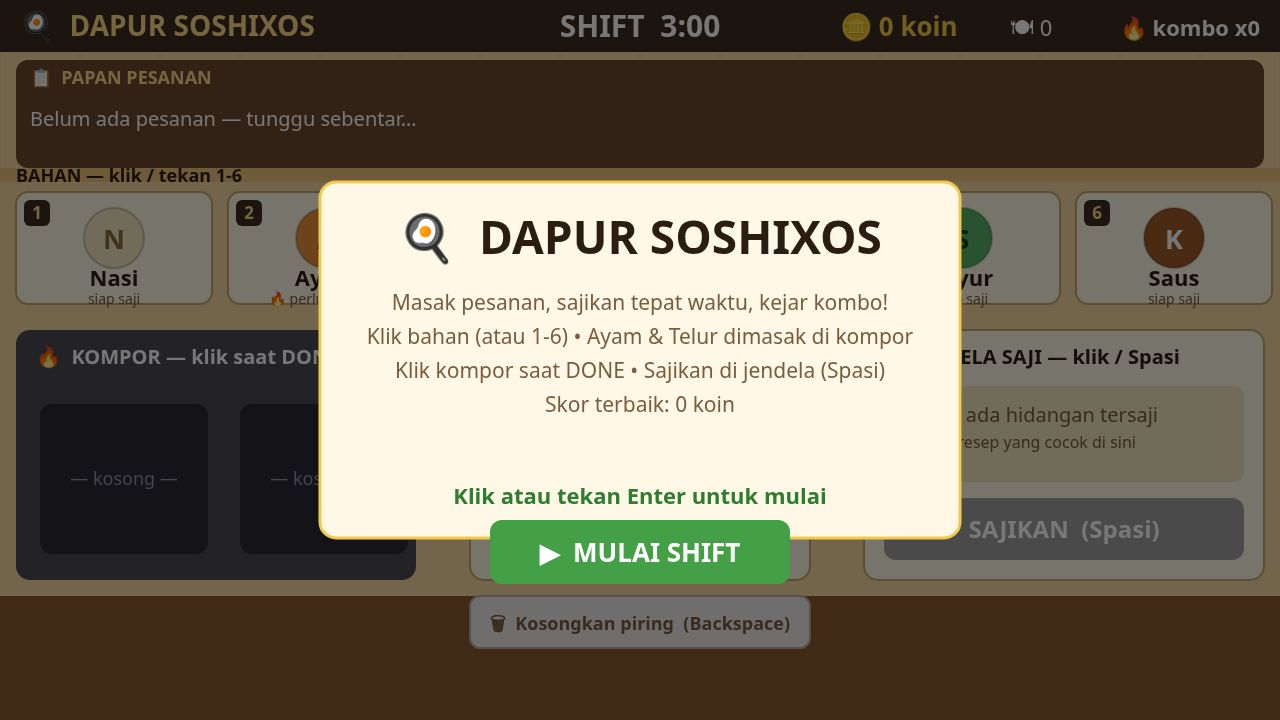
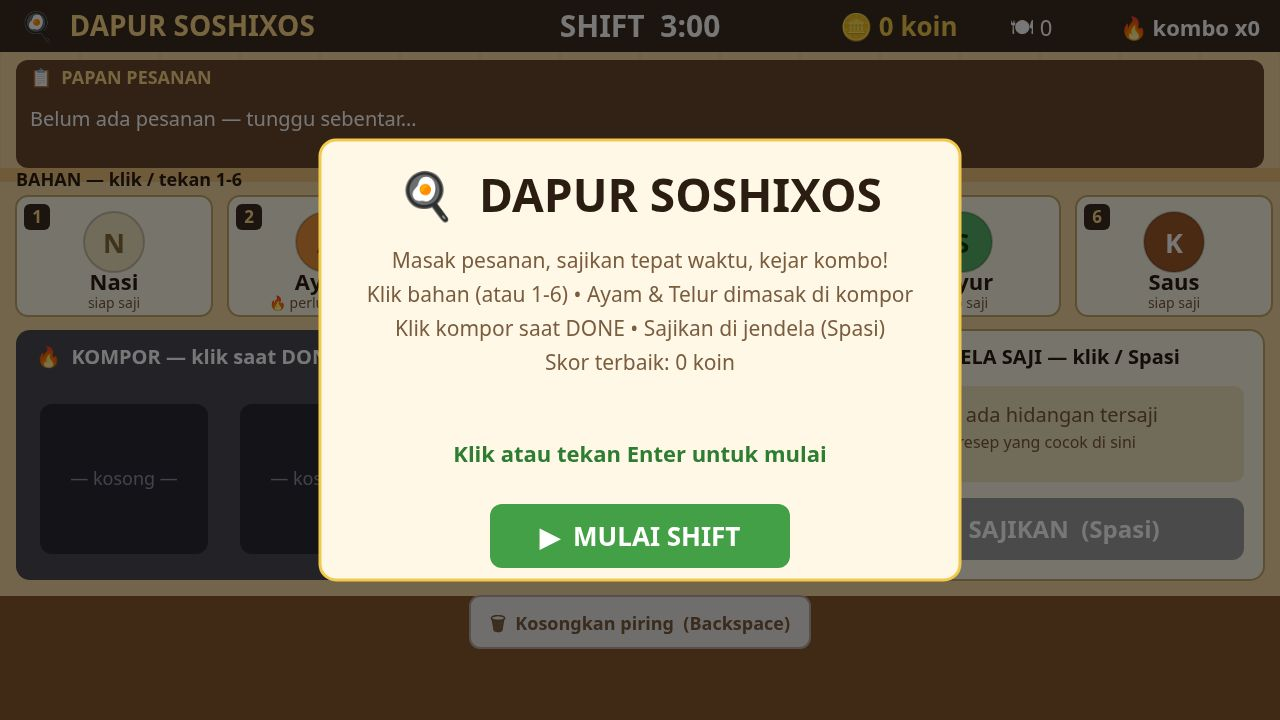
Revise Dapur Soshixos: fix Space-to-serve, toast overflow, title button + plate layout, busier play shot

diff --git a/game/src/render.js b/game/src/render.js
@@ -76,6 +76,22 @@ export function createRenderer(canvas) {
     ctx.stroke();
   }
 
+  // Same as text(), but shrinks the font until the string fits maxWidth —
+  // long toasts (e.g. "+41 koin! Nasi Ayam Saus tersaji.") must never spill
+  // past the panel they sit in.
+  function fitText(value, x, y, size, maxWidth, color, align = 'center', bold = false) {
+    let s = size;
+    ctx.font = `${bold ? 'bold ' : ''}${s}px ${FONT}`;
+    while (s > 11 && ctx.measureText(value).width > maxWidth) {
+      s -= 1;
+      ctx.font = `${bold ? 'bold ' : ''}${s}px ${FONT}`;
+    }
+    ctx.fillStyle = color;
+    ctx.textAlign = align;
+    ctx.textBaseline = 'alphabetic';
+    ctx.fillText(value, x, y);
+  }
+
   function ingredientDisc(cx, cy, r, ing, cooked = true, burnt = false) {
     ctx.beginPath();
     ctx.arc(cx, cy, r, 0, Math.PI * 2);
@@ -188,19 +204,10 @@ export function createRenderer(canvas) {
     outline(p.x, p.y, p.w, p.h, ready ? PALETTE.green : '#c9a86a', ready ? 4 : 2, 14);
     text('🍽  PIRING', p.x + 20, p.y + 34, 20, PALETTE.text, 'left', true);
     text(`${state.plate.length}/${3} bahan`, p.x + p.w - 20, p.y + 34, 18, PALETTE.muted, 'right');
-    // Plate circle.
-    ctx.beginPath();
-    ctx.arc(p.x + p.w / 2, p.y + 150, 78, 0, Math.PI * 2);
-    ctx.fillStyle = PALETTE.plate;
-    ctx.fill();
-    ctx.strokeStyle = '#c9a86a';
-    ctx.lineWidth = 3;
-    ctx.stroke();
-    ctx.beginPath();
-    ctx.arc(p.x + p.w / 2, p.y + 150, 56, 0, Math.PI * 2);
-    ctx.strokeStyle = '#e0cba8';
-    ctx.lineWidth = 2;
-    ctx.stroke();
+    // Wide platter tray the three plate slots sit on (a circle left the outer
+    // discs straddling its rim).
+    rect(p.x + 16, p.y + 92, p.w - 32, 112, PALETTE.plate, 52);
+    outline(p.x + 16, p.y + 92, p.w - 32, 112, '#e0cba8', 2, 52);
     for (let i = 0; i < 3; i += 1) {
       const r = plateSlotRect(i);
       const item = state.plate[i];
@@ -247,7 +254,7 @@ export function createRenderer(canvas) {
     rect(bx, by, bw, bh, ready ? PALETTE.serveReady : '#9e9e9e', 12);
     text(ready ? '🔔  SAJIKAN SEKARANG  (Spasi)' : 'SAJIKAN  (Spasi)', bx + bw / 2, by + 40, 24, '#ffffff', 'center', true);
     if (state.toast) {
-      text(state.toast.text, s.x + s.w / 2, s.y + 246, 17, PALETTE.text, 'center', true);
+      fitText(state.toast.text, s.x + s.w / 2, s.y + 246, 17, s.w - 32, PALETTE.text);
     }
   }
 
@@ -278,9 +285,9 @@ export function createRenderer(canvas) {
     drawTrash(state);
   }
 
-  function drawPanel(title, lines, prompt) {
+  function drawPanel(title, lines, prompt, withButton = false) {
     const width = 640;
-    const height = 150 + lines.length * 34 + 70;
+    const height = 150 + lines.length * 34 + 70 + (withButton ? 84 : 0);
     const x = (FIELD.width - width) / 2;
     const y = (FIELD.height - height) / 2;
     rect(0, 0, FIELD.width, FIELD.height, '#00000088');
@@ -288,7 +295,8 @@ export function createRenderer(canvas) {
     outline(x, y, width, height, PALETTE.gold, 3, 16);
     text(title, FIELD.width / 2, y + 72, 46, PALETTE.text, 'center', true);
     lines.forEach((line, i) => text(line, FIELD.width / 2, y + 128 + i * 34, 21, PALETTE.muted, 'center'));
-    text(prompt, FIELD.width / 2, y + height - 34, 22, PALETTE.green, 'center', true);
+    text(prompt, FIELD.width / 2, y + height - (withButton ? 118 : 34), 22, PALETTE.green, 'center', true);
+    return { x, y, width, height };
   }
 
   function draw(state, screen, best) {
@@ -298,16 +306,17 @@ export function createRenderer(canvas) {
     ctx.setTransform(view.scale, 0, 0, view.scale, view.x, view.y);
     drawKitchen(state);
     if (screen === SCREEN_TITLE) {
-      drawPanel('🍳  DAPUR SOSHIXOS', [
+      const panel = drawPanel('🍳  DAPUR SOSHIXOS', [
         'Masak pesanan, sajikan tepat waktu, kejar kombo!',
         'Klik bahan (atau 1-6) • Ayam & Telur dimasak di kompor',
         'Klik kompor saat DONE • Sajikan di jendela (Spasi)',
         `Skor terbaik: ${best} koin`,
-      ], 'Klik atau tekan Enter untuk mulai');
-      // Start button hint drawn on the panel area.
+      ], 'Klik atau tekan Enter untuk mulai', true);
+      // Start button sits inside the panel, above its bottom edge
+      // (LAYOUT.startButton is kept in sync for hit-testing).
       const b = LAYOUT.startButton;
-      rect(b.x, b.y, b.w, b.h, PALETTE.serveReady, 12);
-      text('▶  MULAI SHIFT', FIELD.width / 2, b.y + 42, 26, '#ffffff', 'center', true);
+      rect(b.x, panel.y + panel.height - 76, b.w, b.h, PALETTE.serveReady, 12);
+      text('▶  MULAI SHIFT', FIELD.width / 2, panel.y + panel.height - 34, 26, '#ffffff', 'center', true);
       return;
     }
     if (screen === SCREEN_PAUSED) {

diff --git a/game/src/world.js b/game/src/world.js
@@ -180,7 +180,7 @@ export function createWorld(random) {
     state.tickets = state.tickets.filter((t) => t.id !== ticket.id);
     state.plate = [];
     state.servedDish = { recipeId: recipe.id, timer: 6 };
-    say(`+${earned} koin! ${recipe.name} disajikan.`);
+    say(`+${earned} koin! ${recipe.name} tersaji.`);
     return EVENT_SERVE;
   }
 
@@ -207,7 +207,7 @@ export function createWorld(random) {
           item.progress = 1;
           item.done = true;
           events |= EVENT_COOK_DONE;
-          say(`${ingredientById(item.id).name} matang! Ambil sebelum gosong.`);
+          say(`${ingredientById(item.id).name} matang! Ambil cepat!`);
         }
       } else if (!item.burnt) {
         item.burnLeft -= dt;
@@ -225,7 +225,7 @@ export function createWorld(random) {
         state.tickets.splice(i, 1);
         state.combo = 0;
         events |= EVENT_EXPIRE;
-        say('Pesanan kedaluwarsa! Pelanggan pergi.');
+        say('Pesanan kedaluwarsa!');
       }
     }
     // New tickets arrive faster as the shift goes on.

diff --git a/game/src/input.js b/game/src/input.js
@@ -9,7 +9,8 @@ export const ACTION_SERVE = 4;
 export const ACTION_RESTART = 8;
 export const ACTION_CLEAR = 16;
 
-const CONFIRM = new Set(['Space', 'Enter']);
+const CONFIRM = new Set(['Enter']);
+const SERVE_KEY = new Set(['Space']);
 const PAUSE = new Set(['KeyP', 'Escape']);
 const RESTART = new Set(['KeyR']);
 const CLEAR = new Set(['Backspace', 'Delete']);
@@ -47,7 +48,9 @@ export function createInput(canvas, onZone) {
   }
 
   window.addEventListener('keydown', (event) => {
-    if (CONFIRM.has(event.code)) {
+    if (SERVE_KEY.has(event.code)) {
+      if (!event.repeat) actions |= ACTION_SERVE;
+    } else if (CONFIRM.has(event.code)) {
       if (!event.repeat) actions |= ACTION_CONFIRM;
     } else if (PAUSE.has(event.code)) {
       if (!event.repeat) actions |= ACTION_PAUSE;

diff --git a/game/src/shots.js b/game/src/shots.js
@@ -81,8 +81,17 @@ export function stageShot(name, world) {
   }
 
   // PLAY: one dish served (visible on the serving counter), then a second
-  // dish mid-assembly — 2 of 3 ingredients on the plate.
+  // dish mid-assembly — 2 of 3 ingredients on the plate. The board is kept
+  // busy (a second ticket is forced in) so the shot shows tickets + timers,
+  // and the served dish is held on the counter for the frame.
   serveFirstTicket(world);
+  world.state.spawnTimer = 0;
+  stepFor(world, 0.2);
   buildMidAssembly(world);
+  if (world.state.tickets.length < 2) {
+    world.state.spawnTimer = 0;
+    stepFor(world, 0.2);
+  }
+  if (world.state.servedDish) world.state.servedDish.timer = 6;
   return { screen: SCREEN_PLAY, best: world.state.coins };
 }

diff --git a/game/src/config.js b/game/src/config.js
@@ -42,13 +42,13 @@ export const LAYOUT = {
   topBar: { x: 0, y: 0, w: 1280, h: 52 },
   board: { x: 16, y: 60, w: 1248, h: 108 },
   ticket: { w: 396, h: 92, gap: 28 },
-  bins: { x: 16, y: 192, w: 196, h: 112, gap: 16 },
+  bins: { x: 16, y: 196, w: 196, h: 120, gap: 16 },
   stove: { x: 16, y: 330, w: 400, h: 250 },
   burner: { w: 168, h: 150, gap: 32 },
   plate: { x: 470, y: 330, w: 340, h: 250 },
   serve: { x: 864, y: 330, w: 400, h: 250 },
   trash: { x: 470, y: 596, w: 340, h: 52 },
-  startButton: { x: 490, y: 520, w: 300, h: 64 },
+  startButton: { x: 490, y: 504, w: 300, h: 64 },
 };
 
 export function binRect(index) {

diff --git a/game/src/main.js b/game/src/main.js
@@ -99,7 +99,7 @@ function runGame() {
       if (events & EVENT_SERVE) announce(`Served! ${world.state.coins} coins.`);
       else if (events & EVENT_WRONG) announce('Wrong recipe. Minus 8 coins.');
     }
-    if (actions & ACTION_CONFIRM && (screen === SCREEN_TITLE || screen === SCREEN_OVER)) startGame();
+    if (actions & (ACTION_CONFIRM | ACTION_SERVE) && (screen === SCREEN_TITLE || screen === SCREEN_OVER)) startGame();
     else if (actions & ACTION_RESTART && screen === SCREEN_OVER) startGame();
     else if (actions & ACTION_PAUSE && screen === SCREEN_PLAY) {
       screen = SCREEN_PAUSED;
